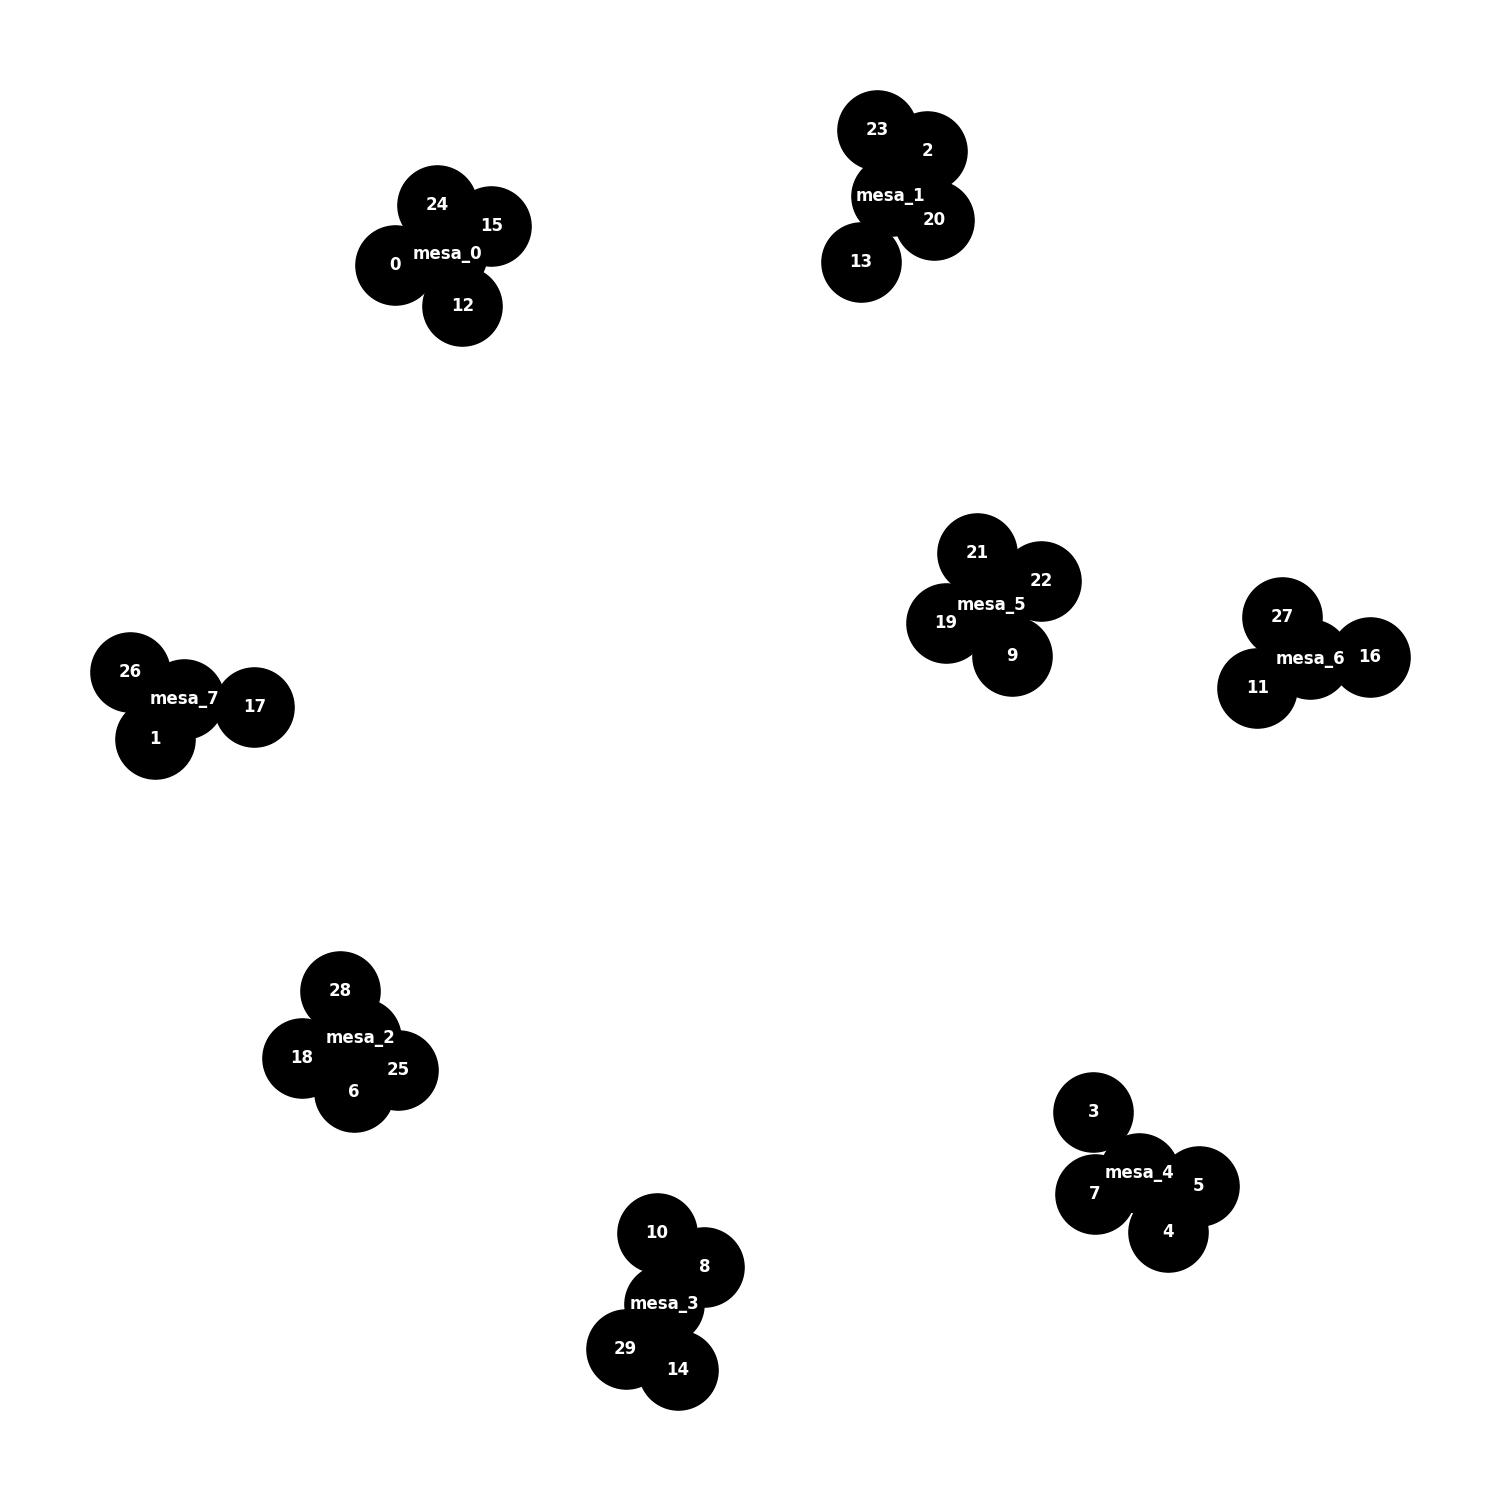
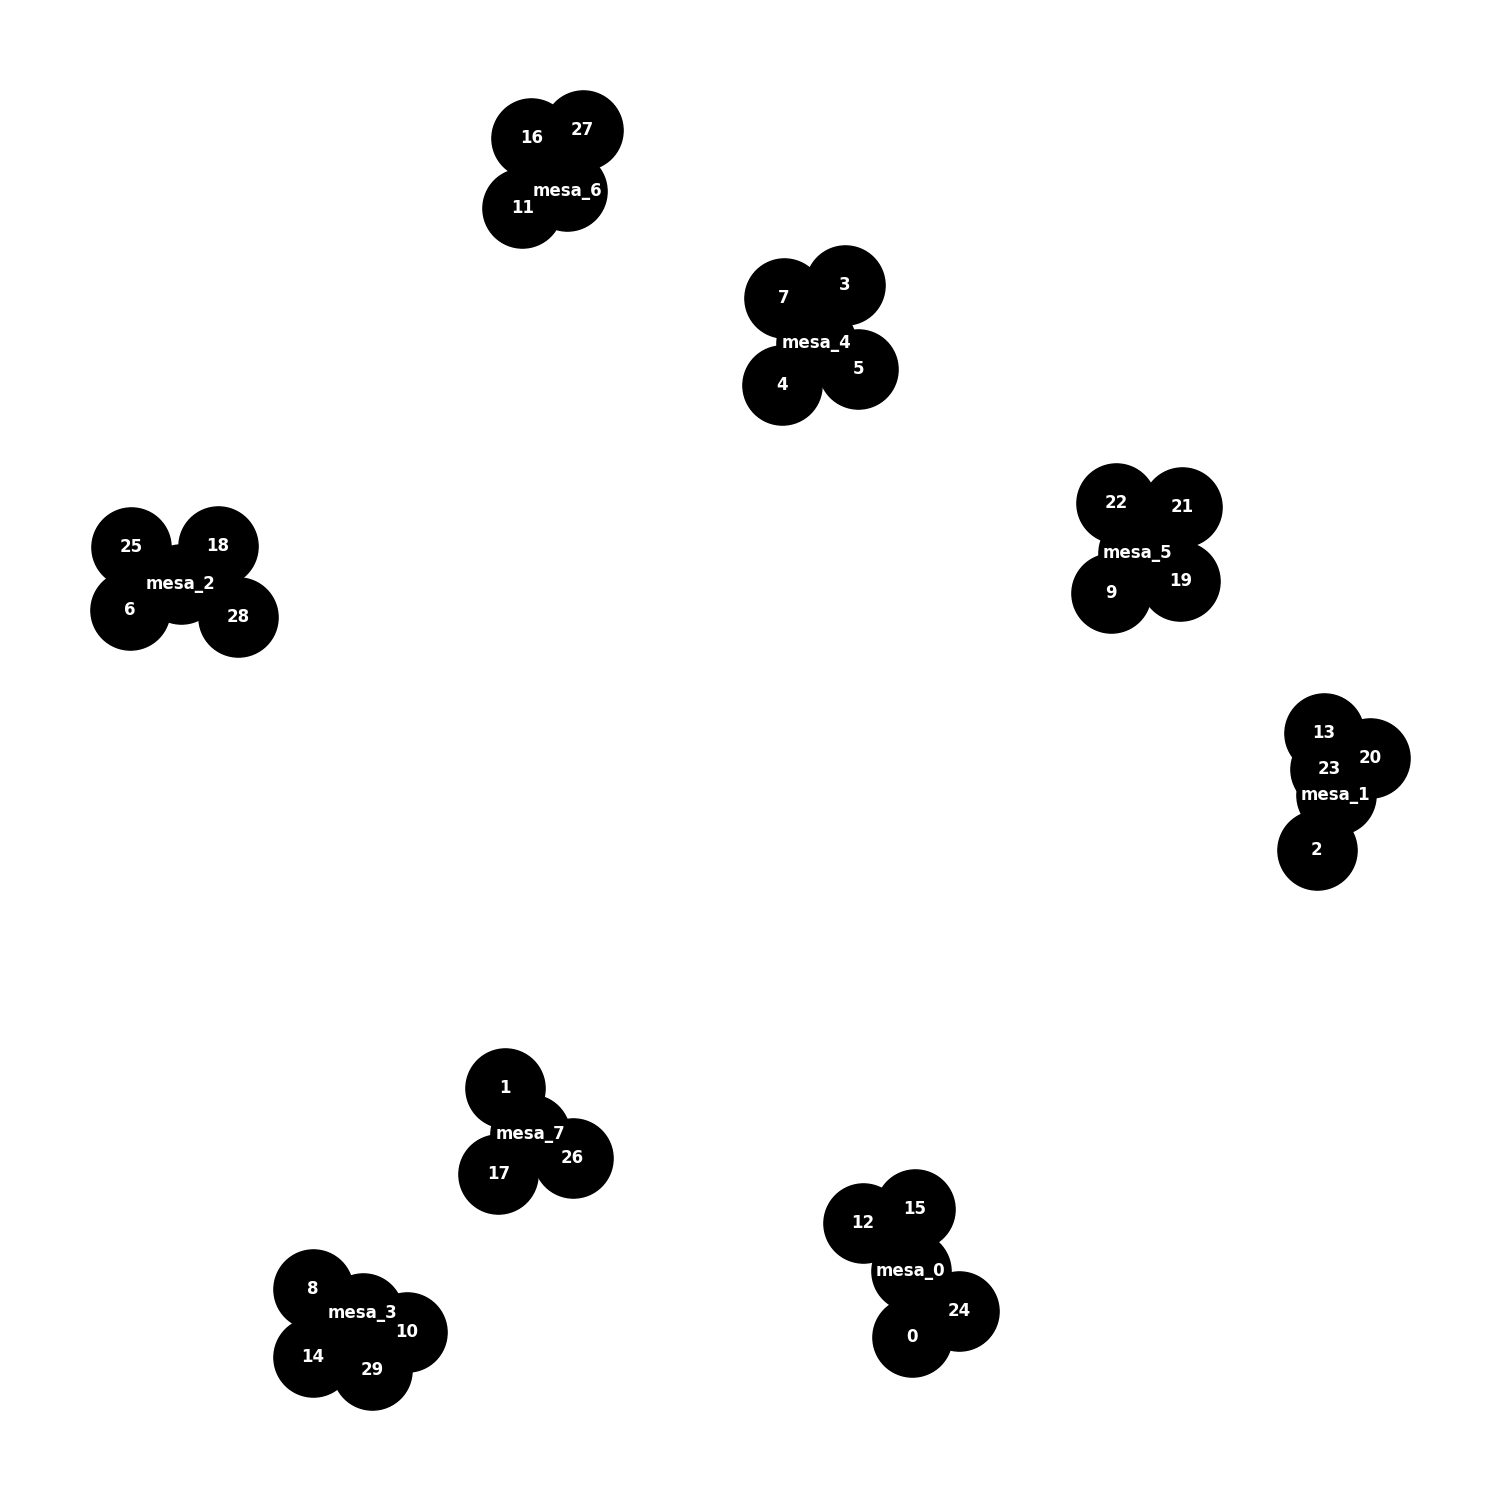
ultimas modificações, remocão do ja_passou

diff --git a/src/function_movimento_vizinhanca.py b/src/function_movimento_vizinhanca.py
@@ -11,13 +11,8 @@ def swap (grafo,matrix_afinidade):
     for j in nodes_edg(i,copia):
       mesa_1 = list(copia.neighbors[i])
       removido1 = mesa_1.pop(mesa_1.index(j))
-      # afinidade_mesa_1 = afin_mesa_local(removido1,mesa_1,matrix_afinidade)
-      if ((removido1,mesa_1) in ja_passou_mesa):
-        afinidade_mesa_1 = ja_passou_mesa[ja_passou_mesa.index((removido1,mesa_1))+1]
-      else:
-        afinidade_mesa_1 = afin_mesa_local(removido1,mesa_1,matrix_afinidade)
-        ja_passou_mesa.append((removido1,mesa_1))
-        ja_passou_mesa.append(afinidade_mesa_1)
+      afinidade_mesa_1 = afin_mesa_local(removido1,mesa_1,matrix_afinidade)
+
 
       for k in list(copia.nodes):
         if (not isinstance(k, str)):
@@ -30,13 +25,8 @@ def swap (grafo,matrix_afinidade):
             continue
           beneficio = 0
           removido2 = mesa_2.pop(mesa_2.index(t))
-          # afinidade_mesa_2 = afin_mesa_local(removido2,mesa_2,matrix_afinidade)
-          if ((removido2,mesa_2) in ja_passou_mesa):
-            afinidade_mesa_2 = ja_passou_mesa[ja_passou_mesa.index((removido2,mesa_2))+1]
-          else:  
-            afinidade_mesa_2 = afin_mesa_local(removido2,mesa_2,matrix_afinidade)
-            ja_passou_mesa.append((removido2,mesa_2))
-            ja_passou_mesa.append(afinidade_mesa_2)
+          afinidade_mesa_2 = afin_mesa_local(removido2,mesa_2,matrix_afinidade)
+
 
 
           beneficio = beneficio - afinidade_mesa_1 - afinidade_mesa_2 + afin_mesa_local(removido2,mesa_1,matrix_afinidade) + afin_mesa_local(removido1,mesa_2,matrix_afinidade)
@@ -52,20 +42,9 @@ def swap (grafo,matrix_afinidade):
     copia.remove_edge(melhor_indice[0],melhor_indice[1])
     copia.remove_edge(melhor_indice[2],melhor_indice[3])
 
-    # ja_passou_mesa.pop(ja_passou_mesa.index(melhor_indice[1]+0.1)+1)
-    # ja_passou_mesa.pop(ja_passou_mesa.index(melhor_indice[1]+0.1))
-    # ja_passou_mesa.pop(ja_passou_mesa.index(melhor_indice[3]+0.1)+1)
-    # ja_passou_mesa.pop(ja_passou_mesa.index(melhor_indice[3]+0.1))
     
     copia.add_edge(melhor_indice[0],melhor_indice[3])
     copia.add_edge(melhor_indice[2],melhor_indice[1])
-
-    # ja_passou_mesa.append(melhor_indice[1]+0.1)
-    # ja_passou_mesa.append(afin_mesa_local(melhor_indice[1],list(copia.neighbors[melhor_indice[0]]),matrix_afinidade))
-    # ja_passou_mesa.append(melhor_indice[3]+0.1)
-    # ja_passou_mesa.append(afin_mesa_local(melhor_indice[3],list(copia.neighbors[melhor_indice[2]]),matrix_afinidade))
-
-
 
     return copia.copy()
   else:
@@ -86,12 +65,7 @@ def Reinsertion (grafo,matrix_afinidade):
       mesa_1 = list(copia.neighbors[i])
       removido1 = mesa_1.pop(mesa_1.index(j))
       afinidade_mesa_1 = afin_mesa_local(removido1,mesa_1,matrix_afinidade)
-      # if (removido1+0.1 in ja_passou_mesa):
-      #   afinidade_mesa_1 = ja_passou_mesa[ja_passou_mesa.index(removido1+0.1)+1]
-      # else:
-      #   afinidade_mesa_1 = afin_mesa_local(removido1,mesa_1,matrix_afinidade)
-      #   ja_passou_mesa.append(removido1+0.1)
-      #   ja_passou_mesa.append(afinidade_mesa_1)
+
 
       for k in list(copia.nodes):
         if (not isinstance(k, str)):
@@ -115,15 +89,10 @@ def Reinsertion (grafo,matrix_afinidade):
   if(melhor_solucao):
     copia.remove_edge(melhor_indice[0],melhor_indice[1])
 
-    # ja_passou_mesa.pop(ja_passou_mesa.index(melhor_indice[1]+0.1)+1)
-    # ja_passou_mesa.pop(ja_passou_mesa.index(melhor_indice[1]+0.1))
 
     copia.add_edge(melhor_indice[2],melhor_indice[1])
 
-    # ja_passou_mesa.append(melhor_indice[1]+0.1)
-    # ja_passou_mesa.append(afin_mesa_local(melhor_indice[1],list(copia.neighbors[melhor_indice[0]]),matrix_afinidade))
 
-    # print(f"melhor solução encontrada = {solution(copia,matrix_afinidade)}")
     return copia.copy()
   else:
     return copia.copy()

diff --git a/src/meta_heuristica.py b/src/meta_heuristica.py
@@ -31,7 +31,7 @@ def Perturbacao(grafo,nivel = 1):
 
 
 
-def ILS (execucoes,vnd_teste,matrix_afinidade,ja_sentou,quant_convidados,ja_passou_mesa = []):
+def ILS (execucoes,vnd_teste,matrix_afinidade,ja_sentou,quant_convidados):
   copia_vnd_teste = vnd_teste.copy()
 
   execucoes = 3
@@ -49,12 +49,12 @@ def ILS (execucoes,vnd_teste,matrix_afinidade,ja_sentou,quant_convidados,ja_pass
       else:
         perturbado_ = Perturbacao(copia_vnd_teste,4)
 
-      solution_,ja_passou_mesa = VND (perturbado_,matrix_afinidade,ja_sentou,quant_convidados,ja_passou_mesa,r=2)
+      solution_ = VND (perturbado_,matrix_afinidade,ja_sentou,quant_convidados,r=3)
       beneficio_encontrado = solution(solution_,matrix_afinidade)
       if(beneficio_encontrado > beneficio):
         beneficio = beneficio_encontrado
         copia_vnd_teste = solution_.copy()
-        # numero_melhoras = 75
+        numero_melhoras = 75
       else:
         numero_melhoras-=1
     if (beneficio > melhor_dos_melhores):

diff --git a/src/main.py b/src/main.py
@@ -100,7 +100,7 @@ for i in instancias:
 
   #INICIO DO VND
   start_time_vnd = time.time()
-  solucao_final_VND,ja_passou_mesa = VND(mesa,matrix_afinidade,ja_sentou,quant_convidados,r=3)
+  solucao_final_VND = VND(mesa,matrix_afinidade,ja_sentou,quant_convidados,r=3)
   end_time_vnd = time.time()
 
   vnd_List.append(solution(solucao_final_VND,matrix_afinidade))
@@ -115,7 +115,7 @@ for i in instancias:
 
   #INICIO META_HEURISTICA
   start_time_ils = time.time()
-  result_ils = ILS(3,solucao_final_VND,matrix_afinidade,ja_sentou,quant_convidados,ja_passou_mesa)
+  result_ils = ILS(3,solucao_final_VND,matrix_afinidade,ja_sentou,quant_convidados)
   end_time_ils = time.time()
 
   ils_List.append(solution(result_ils,matrix_afinidade))

diff --git a/src/vnd.py b/src/vnd.py
@@ -1,7 +1,7 @@
 from function_movimento_vizinhanca import *
 from function_tratamentos import *
 
-def VND (mesa,matrix_afinidade,ja_sentou,quant_convidados,ja_passou_mesa = [], r=3):
+def VND (mesa,matrix_afinidade,ja_sentou,quant_convidados, r=3):
   k = 1
   
   maior_beneficio = solution(mesa,matrix_afinidade)
@@ -23,4 +23,4 @@ def VND (mesa,matrix_afinidade,ja_sentou,quant_convidados,ja_passou_mesa = [], r
     else:
       k +=1
 
-  return mesa.copy(),ja_passou_mesa
+  return mesa.copy()
